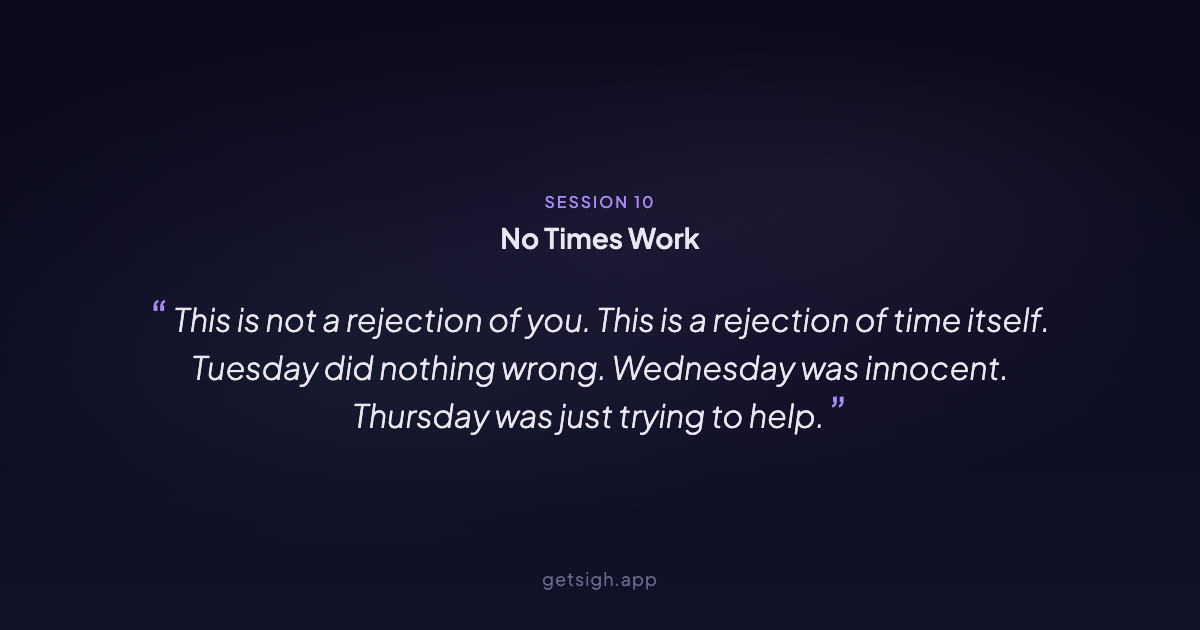
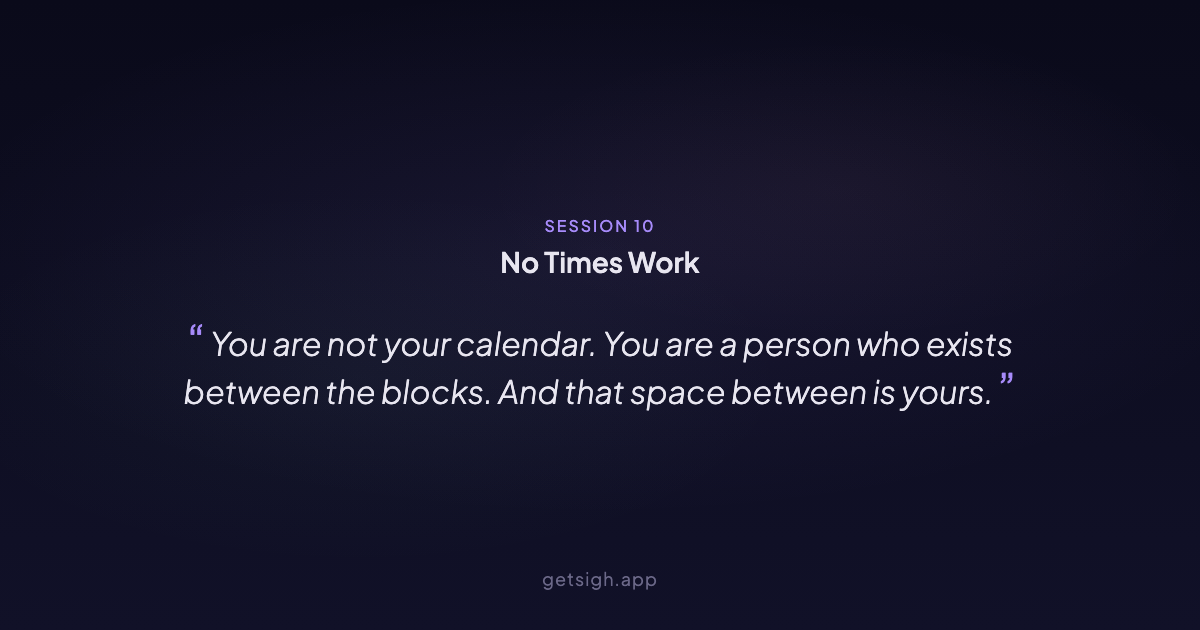
Update share quotes for sessions 5, 10, 11, 12
Propagate updated pull quotes from scripts.md across share pages,
OG meta tags, and regenerated share card images.

Made-with: Cursor

Changed region(s): [[0.1233, 0.4825, 0.8633, 0.6937], [0.4008, 0.3016, 0.5858, 0.4524]]

diff --git a/index.html b/index.html
@@ -1070,7 +1070,7 @@
         subtitle: 'Acceptance and impermanence in org design',
         duration: '1:51',
         voice: 'https://storage.googleapis.com/sigh-audio/session-5.mp3',
-        shareQuote: 'You are not your team name. You are not your cost center. You are a person who happens to sit inside a box on a slide that someone in Strategy is probably moving right now.',
+        shareQuote: 'You are not your cost center. You are a person who happens to sit inside a box on a slide that someone in Strategy is probably moving right now.',
         icon: '<svg viewBox="0 0 40 40" fill="none" stroke="var(--accent-lavender)" stroke-width="1.5" stroke-linecap="round" stroke-linejoin="round"><rect x="14" y="4" width="12" height="7" rx="1.5"/><rect x="4" y="17" width="12" height="7" rx="1.5"/><rect x="24" y="17" width="12" height="7" rx="1.5"/><line x1="20" y1="11" x2="20" y2="14"/><line x1="20" y1="14" x2="10" y2="14"/><line x1="20" y1="14" x2="30" y2="14"/><line x1="10" y1="14" x2="10" y2="17"/><line x1="30" y1="14" x2="30" y2="17"/><path d="M10 24c0 5 10 8 10 4s-10-1-10 4" stroke-dasharray="2 2"/><path d="M30 24c0 5-10 8-10 4s10-1 10 4" stroke-dasharray="2 2"/></svg>'
       },
       {
@@ -1115,7 +1115,7 @@
         subtitle: 'A meditation for scheduling the impossible',
         duration: '2:37',
         voice: 'https://storage.googleapis.com/sigh-audio/session-10.mp3',
-        shareQuote: 'This is not a rejection of you. This is a rejection of time itself. Tuesday did nothing wrong. Wednesday was innocent. Thursday was just trying to help.',
+        shareQuote: 'You are not your calendar. You are a person who exists between the blocks. And that space between is yours.',
         icon: '<svg viewBox="0 0 40 40" fill="none" stroke="var(--accent-lavender)" stroke-width="1.5" stroke-linecap="round" stroke-linejoin="round"><rect x="6" y="6" width="28" height="28" rx="3"/><line x1="6" y1="14" x2="34" y2="14"/><line x1="14" y1="6" x2="14" y2="10"/><line x1="26" y1="6" x2="26" y2="10"/><line x1="14" y1="20" x2="18" y2="24"/><line x1="18" y1="20" x2="14" y2="24"/><line x1="22" y1="20" x2="26" y2="24"/><line x1="26" y1="20" x2="22" y2="24"/></svg>'
       },
       {
@@ -1124,7 +1124,7 @@
         subtitle: 'A meditation for the meeting that could be anything',
         duration: '2:15',
         voice: 'https://storage.googleapis.com/sigh-audio/session-11.mp3',
-        shareQuote: 'No one knows why they\u2019re here. This is the nature of the modern meeting. It exists not because it needs to, but because someone felt the impulse to align.',
+        shareQuote: 'This is the nature of the modern meeting. It exists not because it needs to, but because someone felt the impulse to align.',
         icon: '<svg viewBox="0 0 40 40" fill="none" stroke="var(--accent-lavender)" stroke-width="1.5" stroke-linecap="round" stroke-linejoin="round"><rect x="8" y="4" width="24" height="32" rx="2"/><line x1="14" y1="12" x2="26" y2="12" opacity="0.3"/><line x1="14" y1="18" x2="26" y2="18" opacity="0.3"/><line x1="14" y1="24" x2="22" y2="24" opacity="0.3"/><text x="20" y="22" text-anchor="middle" font-family="var(--font)" font-size="22" font-weight="300" fill="var(--accent-lavender)" stroke="none">?</text></svg>'
       },
       {
@@ -1133,7 +1133,7 @@
         subtitle: 'A breathing exercise for the call no one expected',
         duration: '2:49',
         voice: 'https://storage.googleapis.com/sigh-audio/session-12.mp3',
-        shareQuote: 'A phone call in 2026 is not a communication method. It is an escalation.',
+        shareQuote: 'This is not normal. People do not call anymore. A phone call in 2026 is not a communication method. It is an escalation.',
         icon: '<svg viewBox="0 0 40 40" fill="none" stroke="var(--accent-lavender)" stroke-width="1.5" stroke-linecap="round" stroke-linejoin="round"><path d="M12 6h16a2 2 0 0 1 2 2v24a2 2 0 0 1-2 2H12a2 2 0 0 1-2-2V8a2 2 0 0 1 2-2z"/><line x1="18" y1="32" x2="22" y2="32"/><path d="M16 14c0 0 2-3 4-3s4 3 4 3" stroke-width="1.5"/><path d="M14 11c0 0 3-5 6-5s6 5 6 5" stroke-width="1.5" opacity="0.5"/></svg>'
       }
     ];

diff --git a/s/5/index.html b/s/5/index.html
@@ -5,7 +5,7 @@
   <title>Your 7th Manager — Sigh</title>
   <meta name="description" content="Acceptance and impermanence in org design">
   <meta property="og:title" content="Your 7th Manager — Sigh">
-  <meta property="og:description" content="&quot;You are not your team name. You are not your cost center. You are a person who happens to sit inside a box on a slide that someone in Strategy is probably moving right now.&quot;">
+  <meta property="og:description" content="&quot;You are not your cost center. You are a person who happens to sit inside a box on a slide that someone in Strategy is probably moving right now.&quot;">
   <meta property="og:image" content="https://getsigh.app/og/session-5.png">
   <meta property="og:image:width" content="1200">
   <meta property="og:image:height" content="630">
@@ -13,7 +13,7 @@
   <meta property="og:type" content="website">
   <meta name="twitter:card" content="summary_large_image">
   <meta name="twitter:title" content="Your 7th Manager — Sigh">
-  <meta name="twitter:description" content="&quot;You are not your team name. You are not your cost center. You are a person who happens to sit inside a box on a slide that someone in Strategy is probably moving right now.&quot;">
+  <meta name="twitter:description" content="&quot;You are not your cost center. You are a person who happens to sit inside a box on a slide that someone in Strategy is probably moving right now.&quot;">
   <meta name="twitter:image" content="https://getsigh.app/og/session-5.png">
   <script>window.location.replace('/#session-5');</script>
 </head>

diff --git a/s/11/index.html b/s/11/index.html
@@ -5,7 +5,7 @@
   <title>No Agenda — Sigh</title>
   <meta name="description" content="A meditation for the meeting that could be anything">
   <meta property="og:title" content="No Agenda — Sigh">
-  <meta property="og:description" content="&quot;No one knows why they're here. This is the nature of the modern meeting. It exists not because it needs to, but because someone felt the impulse to align.&quot;">
+  <meta property="og:description" content="&quot;This is the nature of the modern meeting. It exists not because it needs to, but because someone felt the impulse to align.&quot;">
   <meta property="og:image" content="https://getsigh.app/og/session-11.png">
   <meta property="og:image:width" content="1200">
   <meta property="og:image:height" content="630">
@@ -13,7 +13,7 @@
   <meta property="og:type" content="website">
   <meta name="twitter:card" content="summary_large_image">
   <meta name="twitter:title" content="No Agenda — Sigh">
-  <meta name="twitter:description" content="&quot;No one knows why they're here. This is the nature of the modern meeting. It exists not because it needs to, but because someone felt the impulse to align.&quot;">
+  <meta name="twitter:description" content="&quot;This is the nature of the modern meeting. It exists not because it needs to, but because someone felt the impulse to align.&quot;">
   <meta name="twitter:image" content="https://getsigh.app/og/session-11.png">
   <script>window.location.replace('/#session-11');</script>
 </head>

diff --git a/s/10/index.html b/s/10/index.html
@@ -5,7 +5,7 @@
   <title>No Times Work — Sigh</title>
   <meta name="description" content="A meditation for scheduling the impossible">
   <meta property="og:title" content="No Times Work — Sigh">
-  <meta property="og:description" content="&quot;This is not a rejection of you. This is a rejection of time itself. Tuesday did nothing wrong. Wednesday was innocent. Thursday was just trying to help.&quot;">
+  <meta property="og:description" content="&quot;You are not your calendar. You are a person who exists between the blocks. And that space between is yours.&quot;">
   <meta property="og:image" content="https://getsigh.app/og/session-10.png">
   <meta property="og:image:width" content="1200">
   <meta property="og:image:height" content="630">
@@ -13,7 +13,7 @@
   <meta property="og:type" content="website">
   <meta name="twitter:card" content="summary_large_image">
   <meta name="twitter:title" content="No Times Work — Sigh">
-  <meta name="twitter:description" content="&quot;This is not a rejection of you. This is a rejection of time itself. Tuesday did nothing wrong. Wednesday was innocent. Thursday was just trying to help.&quot;">
+  <meta name="twitter:description" content="&quot;You are not your calendar. You are a person who exists between the blocks. And that space between is yours.&quot;">
   <meta name="twitter:image" content="https://getsigh.app/og/session-10.png">
   <script>window.location.replace('/#session-10');</script>
 </head>

diff --git a/s/12/index.html b/s/12/index.html
@@ -5,7 +5,7 @@
   <title>Incoming Call — Sigh</title>
   <meta name="description" content="A breathing exercise for the call no one expected">
   <meta property="og:title" content="Incoming Call — Sigh">
-  <meta property="og:description" content="&quot;A phone call in 2026 is not a communication method. It is an escalation.&quot;">
+  <meta property="og:description" content="&quot;This is not normal. People do not call anymore. A phone call in 2026 is not a communication method. It is an escalation.&quot;">
   <meta property="og:image" content="https://getsigh.app/og/session-12.png">
   <meta property="og:image:width" content="1200">
   <meta property="og:image:height" content="630">
@@ -13,7 +13,7 @@
   <meta property="og:type" content="website">
   <meta name="twitter:card" content="summary_large_image">
   <meta name="twitter:title" content="Incoming Call — Sigh">
-  <meta name="twitter:description" content="&quot;A phone call in 2026 is not a communication method. It is an escalation.&quot;">
+  <meta name="twitter:description" content="&quot;This is not normal. People do not call anymore. A phone call in 2026 is not a communication method. It is an escalation.&quot;">
   <meta name="twitter:image" content="https://getsigh.app/og/session-12.png">
   <script>window.location.replace('/#session-12');</script>
 </head>
